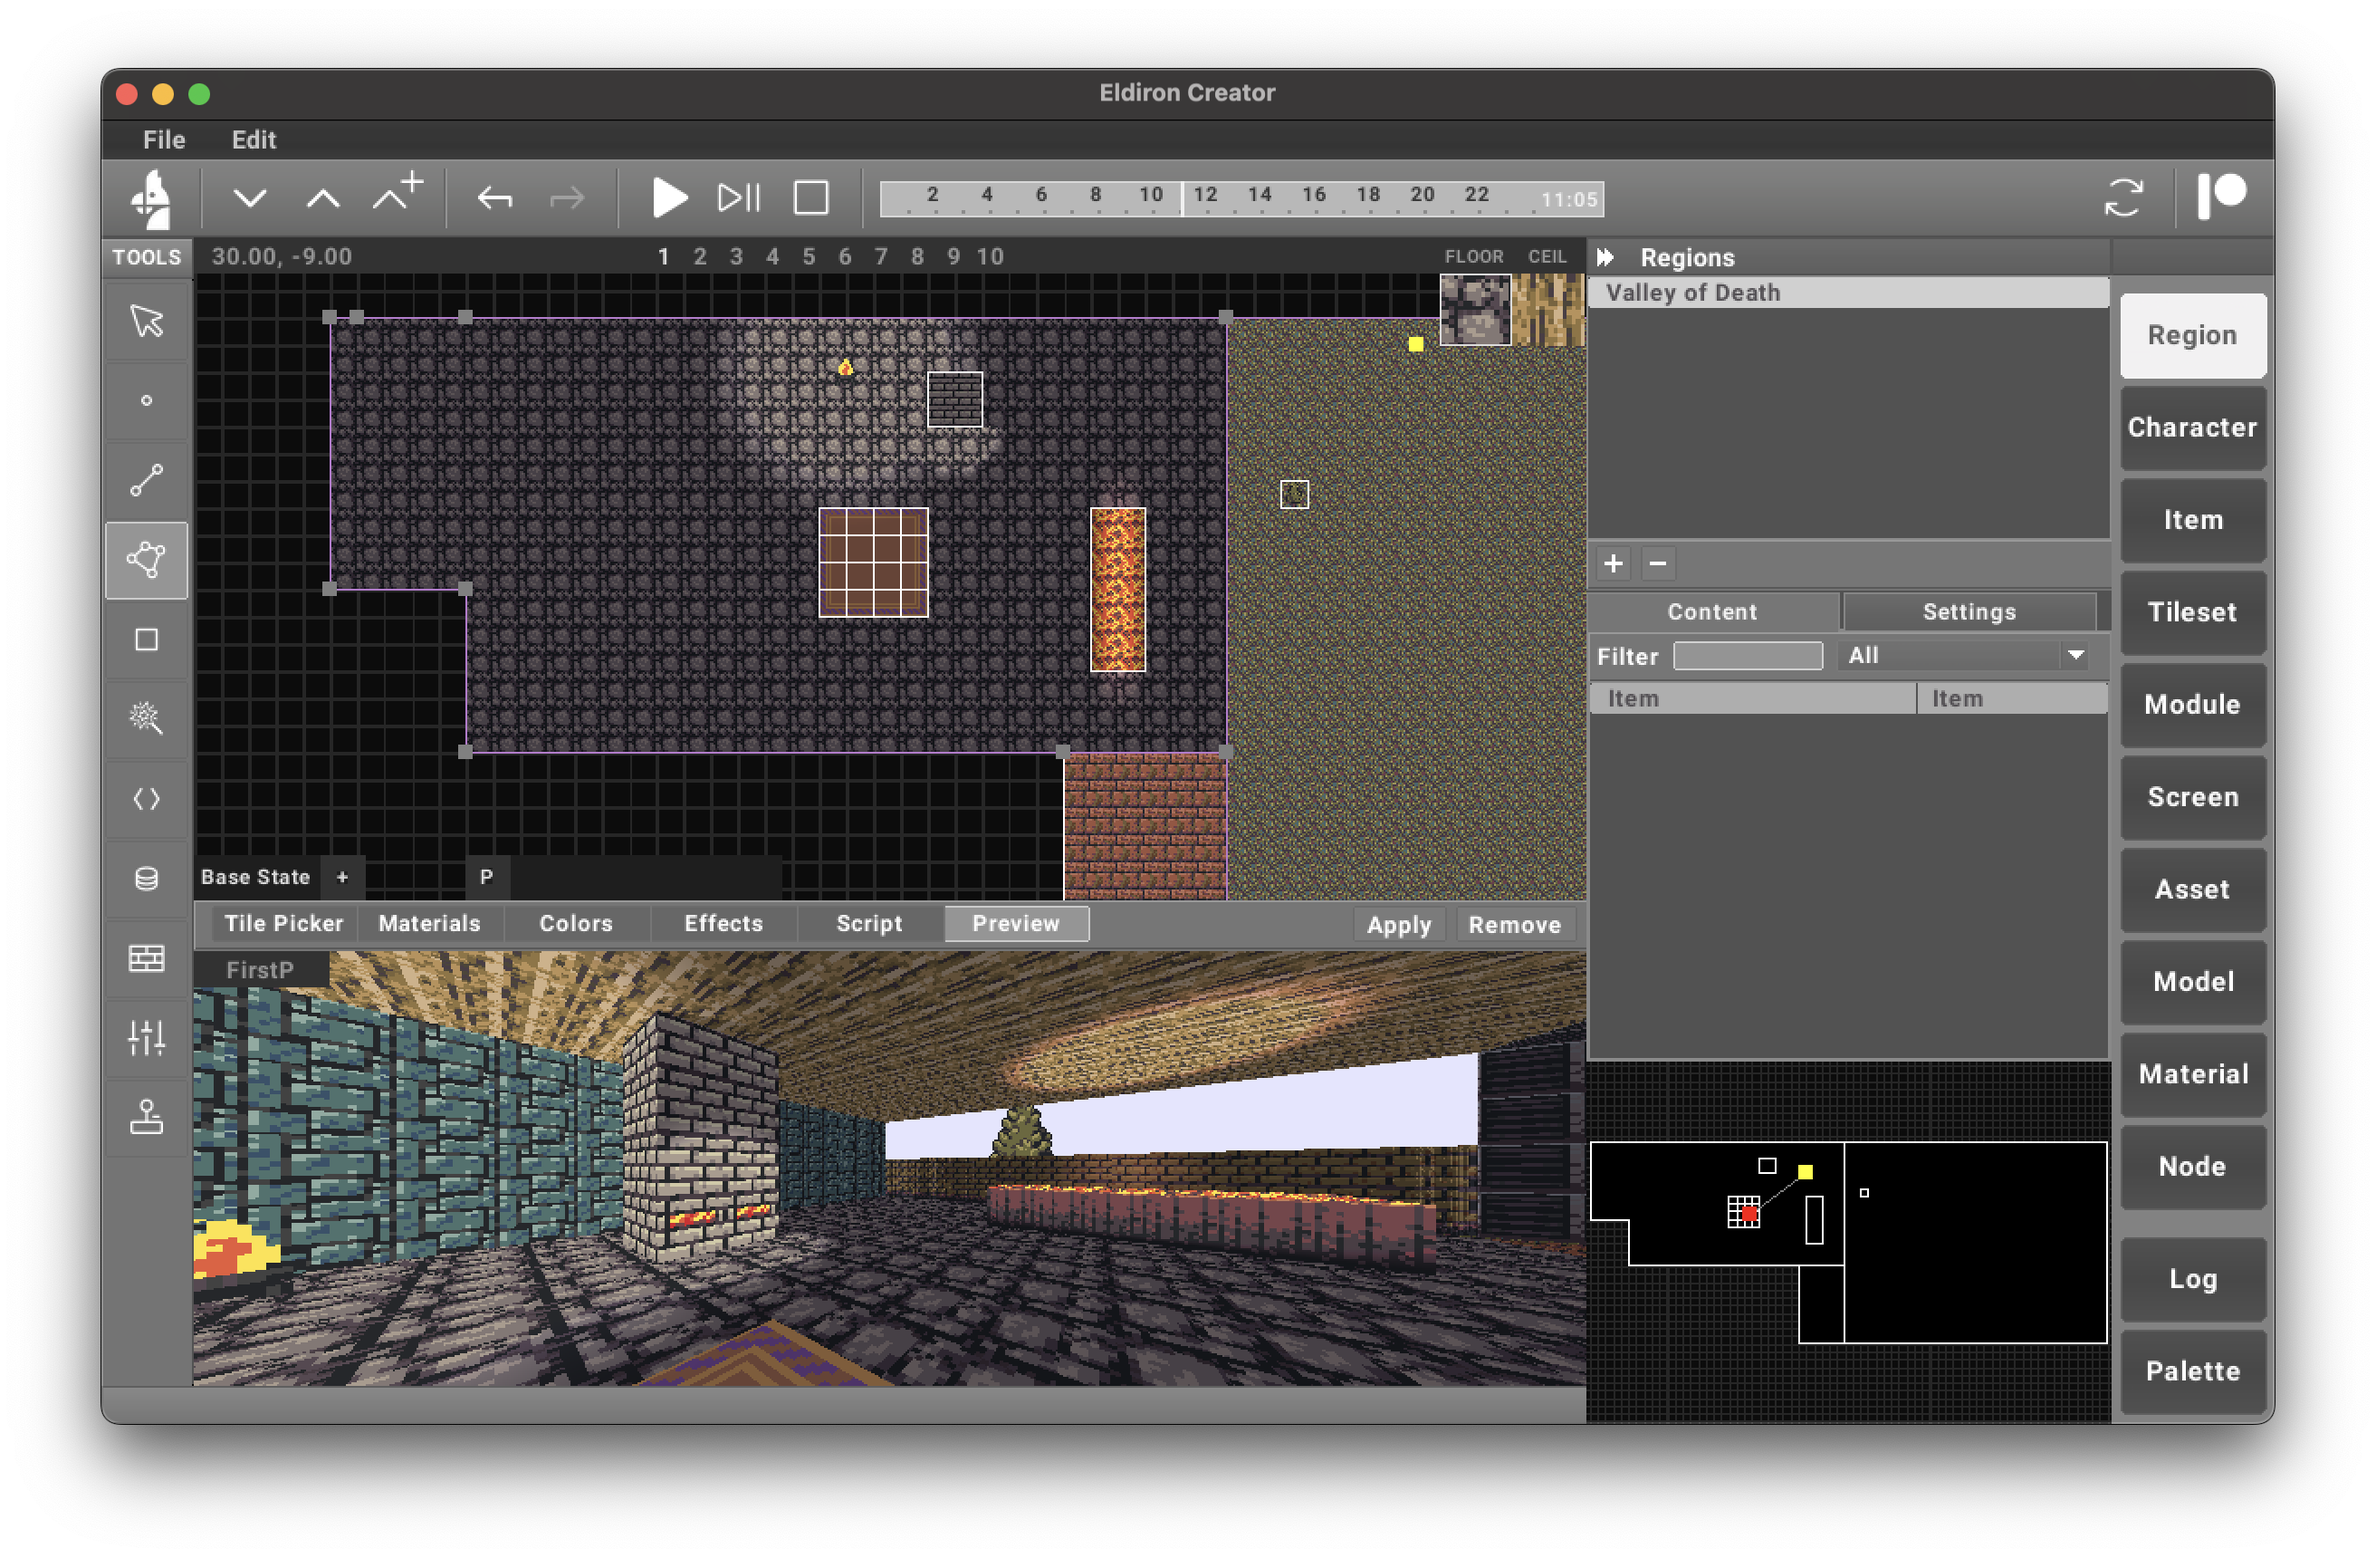
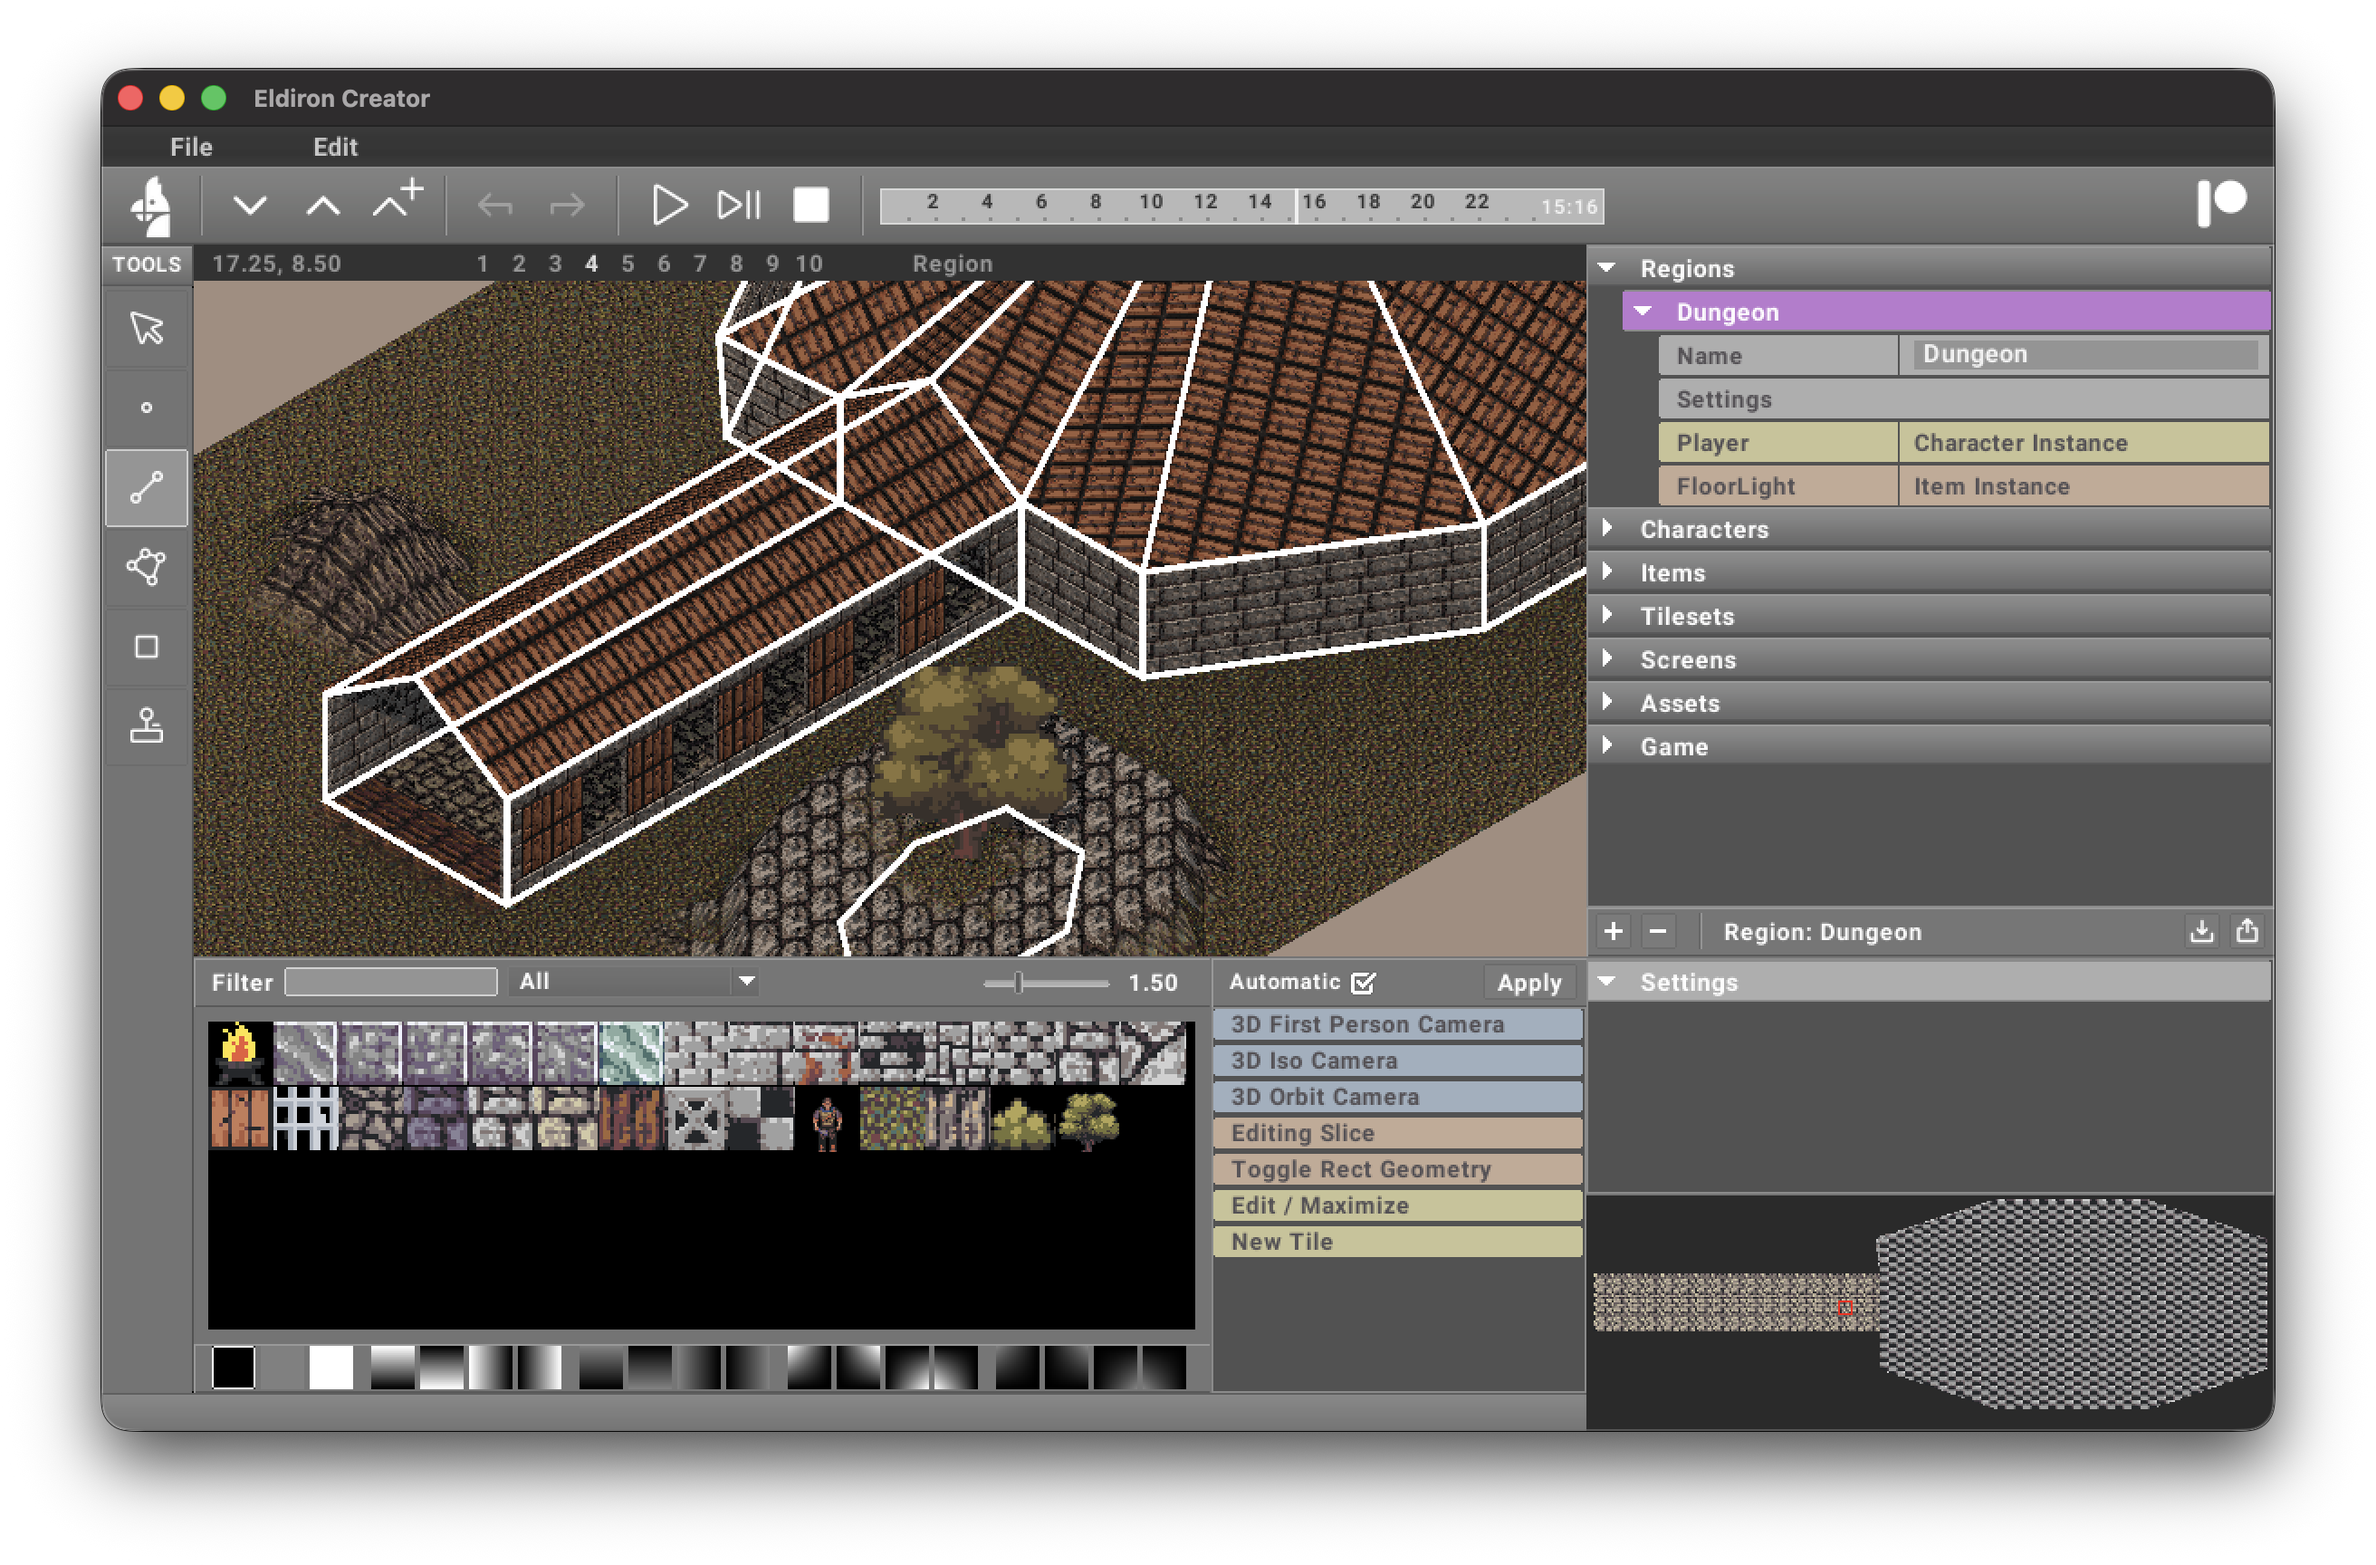
Started with docs rewrite

diff --git a/docs/creator/introduction.md b/docs/creator/introduction.md
@@ -7,14 +7,8 @@ sidebar_position: 1
 
 ![Eldiron Creator](/img/docs/screenshot.png)
 
-On the **left side** of the screen, you’ll find a **list of tools**. These tools are used to **edit the current map** or **modify content** selected from the **right side**, which I call **Sections**.
+On the **left side** of the screen, you’ll find a **list of tools**. These tools are used to **edit the geometry** of the currently selected region or content. The 2D and 3D geometry is displayed in the **geometry editor** in the middle of the screen.
 
-A **Section** can represent different types of content, such as:
-- A **Region** (a level or world map)
-- A **Character Model**
-- A **Material**
-- And more
+To the right of the screen you see the **project tree** which lists all editable items of your project, like **regions**, **characters** and more. Below the **project tree** are the settings of the currently selected **action** and beneath that the minimap of the current content. The minimap automatically adjusts to the current context (regions, tiles).
 
-The tools will always **adapt to the currently selected section**, ensuring a streamlined workflow.
-
-In the following sub-chapters, I will describe the **role of each tool and section** in detail.
+At the bottom of the screen you see the currently active **dock**, in this screenshot the tile picker. To the right of the **dock** area is the **action list**, it lists all [actions](actions/) which can be performed at the current moment (depending on the selected geometry, item and camera).

diff --git a/docs/creator/actions.md b/docs/creator/actions.md
@@ -1,0 +1,30 @@
+---
+title: "Actions"
+sidebar_position: 5
+---
+
+Actions do the real work in the **Eldiron Creator**. From maximizing the dock widget to creating geometry or switching cameras. It is a centralized system which only displays actions which are currently applicable (depending on the selected geometry, project tree item and camera).
+
+Actions listed in blue represent camera based actions, red actions are applicable to the current content of the **geometry editor**, while yellow are applicable to the content of the **dock widget**.
+
+---
+
+# General Actions
+
+## Maximize
+
+Maximizes the **dock widget**. Good for full screen editing of content. Some docks, like the tile-picker, reveal specialized editors when maximized, in the case of the tile-picker, the integrated pixel editor.
+
+## Minimize
+
+Minimizes a maximized **dock widget**.
+
+---
+
+# Dock Actions
+
+## Tile Picker
+
+### Apply Tile
+
+Applies the currently selected tile to the currently selected sector(s).

diff --git a/docs/creator/tools/rect.md b/docs/creator/tools/rect.md
@@ -22,11 +22,8 @@ The Rect Tool has **two modes**:
 
 ## When to Use the Rect Tool
 
-- **2D Games**: The **Rect Tool is the primary tool** for quickly drawing large tile areas.
-- **3D Games**: Used for adding details like **carpets, signs, or decorations**. Tile settings determine how the tile is rendered:
-  - As a **billboard**
-  - As a **box**
-  - As **floor decoration**
-- **Materials**: Functions as a **drawing tool**, allowing you to place **individual pixels**.
+- **2D Camera**: The **Rect Tool is the primary tool** for drawing tiles.
 
-The **Rect Tool** is a fast and intuitive way to add **tiles, decorations, and details** to your maps and materials.
+- **3D Camera**: Draw tiles directly on 3D surfaces and terrain.
+
+The **Rect Tool** is a fast and intuitive way to add **tiles, decorations, and details** to your maps.

diff --git a/docs/creator/tools/sector.md b/docs/creator/tools/sector.md
@@ -21,7 +21,7 @@ Sectors define **floors, ceilings, and traversable areas** in your map. They are
 
 ## Assigning Tiles
 
-You can **assign tiles** to selected sectors to decorate **floors** and **ceilings** by applying a **source** (a tile, material, or color) to the selected surface.
+You can **assign tiles** to selected sectors with the [Apply Tile](../actions/#apply-tile) action.
 
 ### How to Apply or Remove Tiles:
 1. **Select a sector** or **multiple sectors** using the **Sector Tool**.

diff --git a/docs/reference/attributes.md b/docs/reference/attributes.md
@@ -4,9 +4,8 @@ sidebar_position: 1
 ---
 
 This chapter lists all supported **attributes** for characters and items in Eldiron.  
-Attributes can be set via the [Code Tool (Python)](/docs/creator/characters#instances) or [Data Tool (TOML)](/docs/creator/items).
 
-Attributes are noted in each description as to whether they apply to characters, items, or both.
+Attributes can be applied to characters, items, or both.
 
 ---
 

diff --git a/docs/creator/tools/vertex.md b/docs/creator/tools/vertex.md
@@ -10,6 +10,7 @@ Unlike the **Selection Tool**, which can select multiple types of geometry at on
 ## Selection Modes
 
 - **Click**: Select a vertex.
+- **Shift + Click** (on empty area): Create a new vertex.
 - **Shift + Click**: Select multiple vertices.
 - **Alt (Mac: Option) + Click**: Remove vertices from the selection.
 - **Click + Drag**: Move selected vertices.

diff --git a/docs/reference/configuration.md b/docs/reference/configuration.md
@@ -1,9 +1,9 @@
 ---
-title: "Configuration"
+title: "Game Configuration"
 sidebar_position: 2
 ---
 
-You can configure **Eldiron** using the **Config Tool** with the in-built **TOML editor**.
+You can configure **Eldiron** by selecting the **Game -> Settings** item in the **project tree**.
 
 ---
 

diff --git a/docs/creator/regions.md b/docs/creator/regions.md
@@ -1,0 +1,4 @@
+---
+title: "Regions"
+sidebar_position: 2
+---
